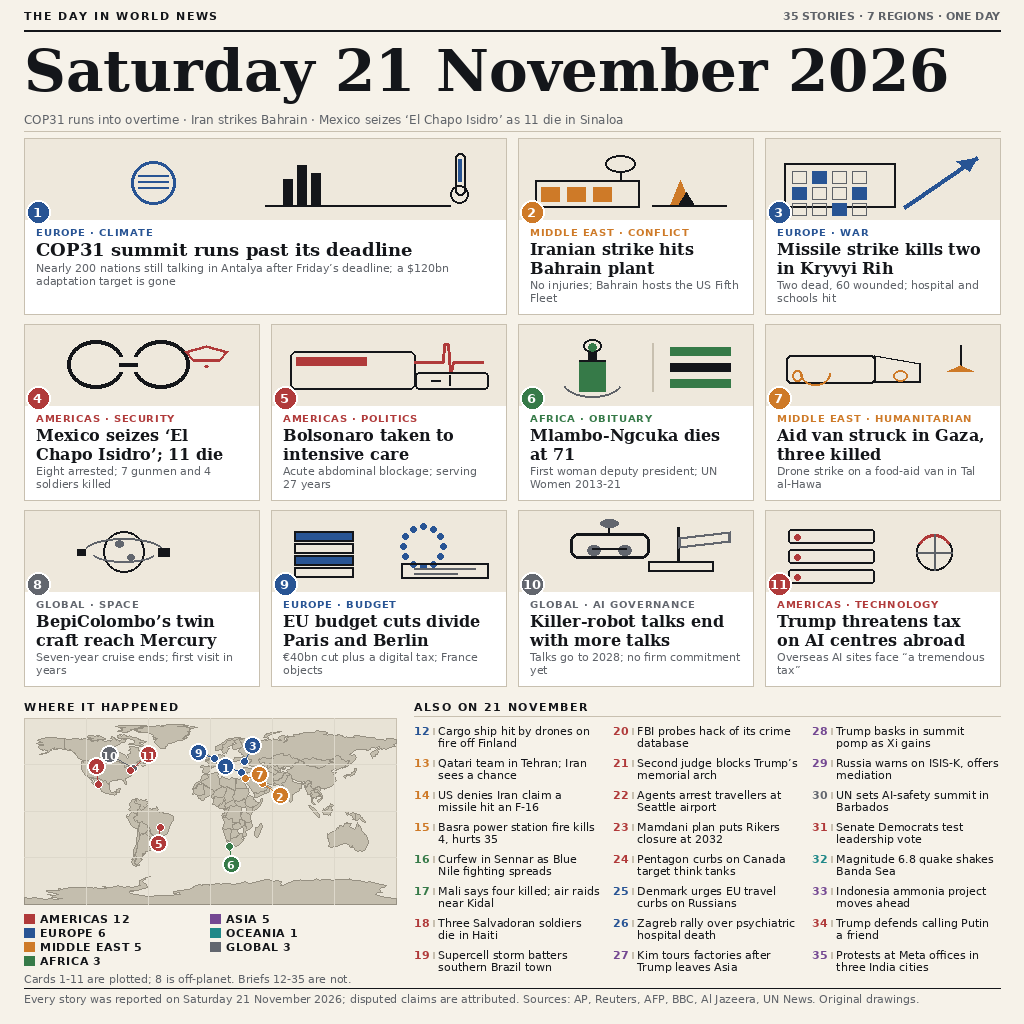
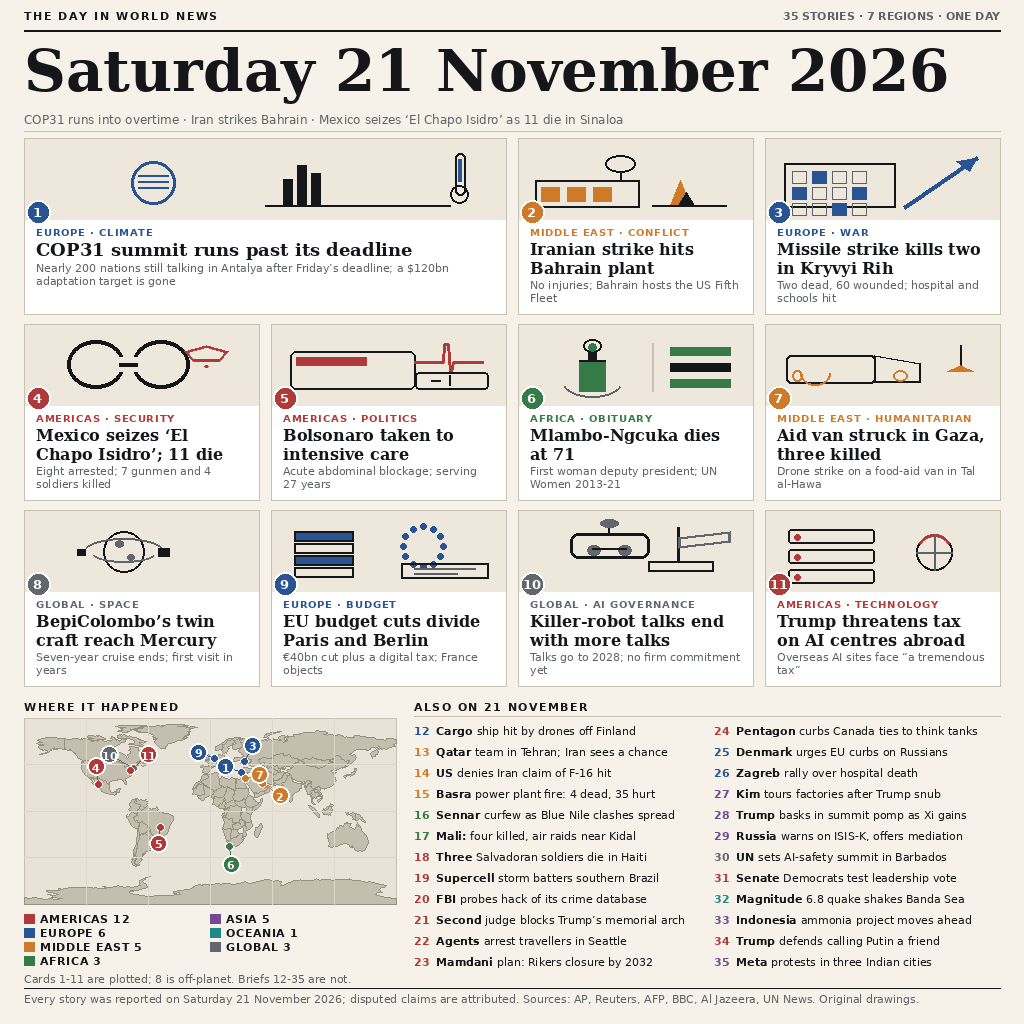
briefs: two columns of one-line items with bold lead-ins, index 12-35

Changed region(s): [[0.4062, 0.6875, 0.9688, 0.9688]]

diff --git a/render.py b/render.py
@@ -133,22 +133,22 @@ CARDS = [
 ]
 
 BRIEFS = [
-    (12, "EUROPE", "Cargo ship hit by drones on fire off Finland"),
-    (13, "MIDDLE EAST", "Qatari team in Tehran; Iran sees a chance"),
-    (14, "MIDDLE EAST", "US denies Iran claim a missile hit an F-16"),
-    (15, "MIDDLE EAST", "Basra power station fire kills 4, hurts 35"),
-    (16, "AFRICA", "Curfew in Sennar as Blue Nile fighting spreads"),
-    (17, "AFRICA", "Mali says four killed; air raids near Kidal"),
+    (12, "EUROPE", "Cargo ship hit by drones off Finland"),
+    (13, "MIDDLE EAST", "Qatar team in Tehran; Iran sees a chance"),
+    (14, "MIDDLE EAST", "US denies Iran claim of F-16 hit"),
+    (15, "MIDDLE EAST", "Basra power plant fire: 4 dead, 35 hurt"),
+    (16, "AFRICA", "Sennar curfew as Blue Nile clashes spread"),
+    (17, "AFRICA", "Mali: four killed, air raids near Kidal"),
     (18, "AMERICAS", "Three Salvadoran soldiers die in Haiti"),
-    (19, "AMERICAS", "Supercell storm batters southern Brazil town"),
+    (19, "AMERICAS", "Supercell storm batters southern Brazil"),
     (20, "AMERICAS", "FBI probes hack of its crime database"),
     (21, "AMERICAS", "Second judge blocks Trump\u2019s memorial arch"),
-    (22, "AMERICAS", "Agents arrest travellers at Seattle airport"),
-    (23, "AMERICAS", "Mamdani plan puts Rikers closure at 2032"),
-    (24, "AMERICAS", "Pentagon curbs on Canada target think tanks"),
-    (25, "EUROPE", "Denmark urges EU travel curbs on Russians"),
-    (26, "EUROPE", "Zagreb rally over psychiatric hospital death"),
-    (27, "ASIA", "Kim tours factories after Trump leaves Asia"),
+    (22, "AMERICAS", "Agents arrest travellers in Seattle"),
+    (23, "AMERICAS", "Mamdani plan: Rikers closure by 2032"),
+    (24, "AMERICAS", "Pentagon curbs Canada ties to think tanks"),
+    (25, "EUROPE", "Denmark urges EU curbs on Russians"),
+    (26, "EUROPE", "Zagreb rally over hospital death"),
+    (27, "ASIA", "Kim tours factories after Trump snub"),
     (28, "ASIA", "Trump basks in summit pomp as Xi gains"),
     (29, "ASIA", "Russia warns on ISIS-K, offers mediation"),
     (30, "GLOBAL", "UN sets AI-safety summit in Barbados"),
@@ -156,7 +156,7 @@ BRIEFS = [
     (32, "OCEANIA", "Magnitude 6.8 quake shakes Banda Sea"),
     (33, "ASIA", "Indonesia ammonia project moves ahead"),
     (34, "AMERICAS", "Trump defends calling Putin a friend"),
-    (35, "ASIA", "Protests at Meta offices in three India cities"),
+    (35, "ASIA", "Meta protests in three Indian cities"),
 ]
 
 TOTAL = len(CARDS) + len(BRIEFS)
@@ -467,23 +467,27 @@ def draw_briefs(d):
     f = font(SANS_B, 11)
     tracked(d, BRIEF_X, BAND_Y, "ALSO ON 21 NOVEMBER", f, INK, 1.4)
     d.line((BRIEF_X, BAND_Y + 16, W - MARGIN, BAND_Y + 16), fill=RULE, width=1)
-    cols = 3
-    gutter = 12
-    col_w = (BRIEF_W - gutter * (cols - 1)) // cols
+    cols = 2
+    gutter = 14
+    col_w = (BRIEF_W - gutter) // cols
     per_col = (len(BRIEFS) + cols - 1) // cols
     top = BAND_Y + 24
-    bottom = 984
-    row_h = (bottom - top) // per_col
+    row_h = (984 - top) // per_col
+    fbold = font(SANS_B, 11)
+    freg = font(SANS, 11)
     for idx, (n, region, text) in enumerate(BRIEFS):
         col, row = divmod(idx, per_col)
         x = BRIEF_X + col * (col_w + gutter)
         y = top + row * row_h
         accent = REGIONS[region]
-        fn = font(SANS_B, 11)
-        d.text((x, y), str(n), font=fn, fill=accent)
-        fw = fn.getlength(str(n))
-        d.rectangle((x + fw + 4, y + 4, x + fw + 5, y + 10), fill=RULE)
-        block(d, x + fw + 9, y, text, font(SANS, 11), INK, col_w - fw - 9, 12, 2)
+        d.text((x, y), str(n), font=fbold, fill=accent)
+        nx = x + fbold.getlength(str(n)) + 7
+        lead, _, rest = text.partition(" ")
+        width = fbold.getlength(lead) + freg.getlength(" " + rest)
+        if nx + width > x + col_w:
+            raise ValueError(f"brief {n} does not fit one line: {text!r} ({width:.0f}px)")
+        d.text((nx, y), lead, font=fbold, fill=INK)
+        d.text((nx + fbold.getlength(lead + " "), y), rest, font=freg, fill=INK)
 
 
 def draw_footer(d):

diff --git a/README.md b/README.md
@@ -24,7 +24,7 @@ Every story is dated 21 November 2026 — `DATE_AUDIT.md` lists each one as `NN 
 
 | file | what it is |
 |---|---|
-| `entry.png` | the submitted image, 1024x1024, 157,156 bytes |
+| `entry.png` | the submitted image, 1024x1024, 157,368 bytes |
 | `main.py` | the entrypoint: copies `entry.png` to `$MAKEFUN_OUTPUT_DIR/entry.png` and verifies the copy |
 | `render.py` | the drawing program (Pillow): rebuilds `entry.png` byte for byte |
 | `land.json` | simplified Natural Earth 1:110m coastlines (public domain) used by the map |
